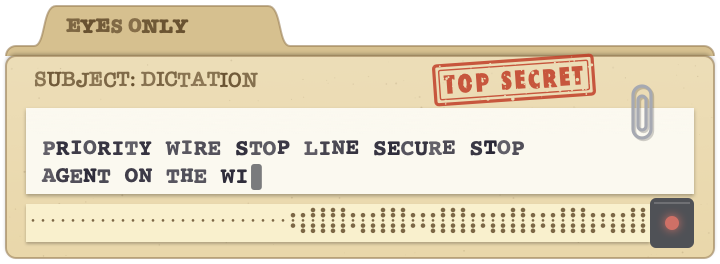
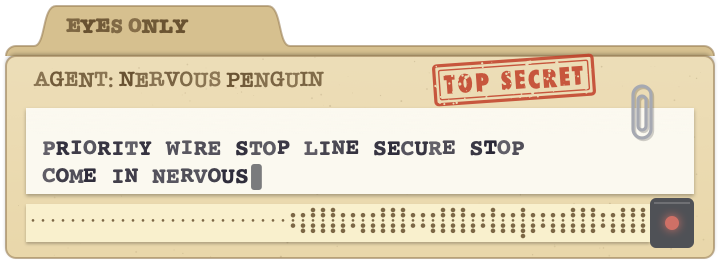
Docs for 1.5.1

diff --git a/USER-GUIDE.md b/USER-GUIDE.md
@@ -161,7 +161,7 @@ switchable anytime, applies to your next utterance. Eight to choose from:
 | **Oscilloscope** — graticule screen, glowing trace riding your voice; Lissajous figure while analyzing | ![](docs/images/themes/scope.png) |
 | **Groovy** — 1968 flower power: doors swing open with flowers springing out, a daisy meter, go-go headlines | ![](docs/images/themes/groovy.png) |
 | **Glitter Text** — Y2K glitter graphics: bubbly sticker-edged letters filled with shimmering pink, gold, and lilac, sparkles twinkling inside them and drifting across a pastel sky. A different headline each time (SPARKLE ON, SO SHINY, USE YOUR INSIDE VOICE), a glitter bar that gets denser the louder you are, chasing sparkles while loading, and a glitter-bomb burst of hearts and stars when your text lands | ![](docs/images/themes/glitter.png) |
-| **Mission: Danger!** — a 1960s secret-agent case file: manila folder stamped TOP SECRET, a teletype printing the wire telegram-style (AGENT ON THE WIRE STOP SPEAK NOW STOP), and five-hole paper tape punched in time with your voice. It hammers out cipher groups while decoding, and a FILE CLOSED stamp slams down when your text lands | ![](docs/images/themes/dossier.png) |
+| **Top Secret** — a 1960s secret-agent case file: manila folder stamped TOP SECRET, a teletype hailing a new silly codename every time you dictate (COME IN SOGGY WAFFLE STOP), and five-hole paper tape punched in time with your voice. It hammers out cipher groups while decoding, and a CASE CLOSED stamp slams down when your text lands (DELIVERED STOP SHRED AFTER READING STOP) | ![](docs/images/themes/dossier.png) |
 
 **Play Sound on Insert** — a soft pop when text lands. Off by default.
 

diff --git a/CHANGELOG.md b/CHANGELOG.md
@@ -1,5 +1,15 @@
 # Changelog
 
+## 1.5.1 — 2026-09-19
+
+- The Mission: Danger! theme is now called **Top Secret**. If you had it
+  selected, it stays selected.
+- Top Secret's teletype is cheekier: every dictation gets a new silly
+  codename (COME IN SOGGY WAFFLE STOP, MIDNIGHT BISCUIT HAS THE FLOOR STOP)
+  that also goes on the folder, decoding reads INTERCEPT RECEIVED, the
+  sign-off is DELIVERED STOP SHRED AFTER READING STOP, and the final stamp
+  says CASE CLOSED.
+
 ## 1.5.0 — 2026-09-18
 
 - New theme: **Mission: Danger!** — a 1960s secret-agent case file. A

diff --git a/README.md b/README.md
@@ -89,7 +89,7 @@ is green.
   voice-activity detection so long pauses can't derail a dictation, beam
   search, and deterministic substitution rules.
 - **Eight HUD themes**, purely cosmetic: Modern, Green Phosphor, Red Eye,
-  RetroComp '82, Oscilloscope, Groovy, Glitter Text, and Mission: Danger!.
+  RetroComp '82, Oscilloscope, Groovy, Glitter Text, and Top Secret.
   Full gallery in the
   [User Guide](USER-GUIDE.md#the-menu-bar-icon).
 - **Simple menu.** Everyday items up top, everything else under Advanced ▸.
